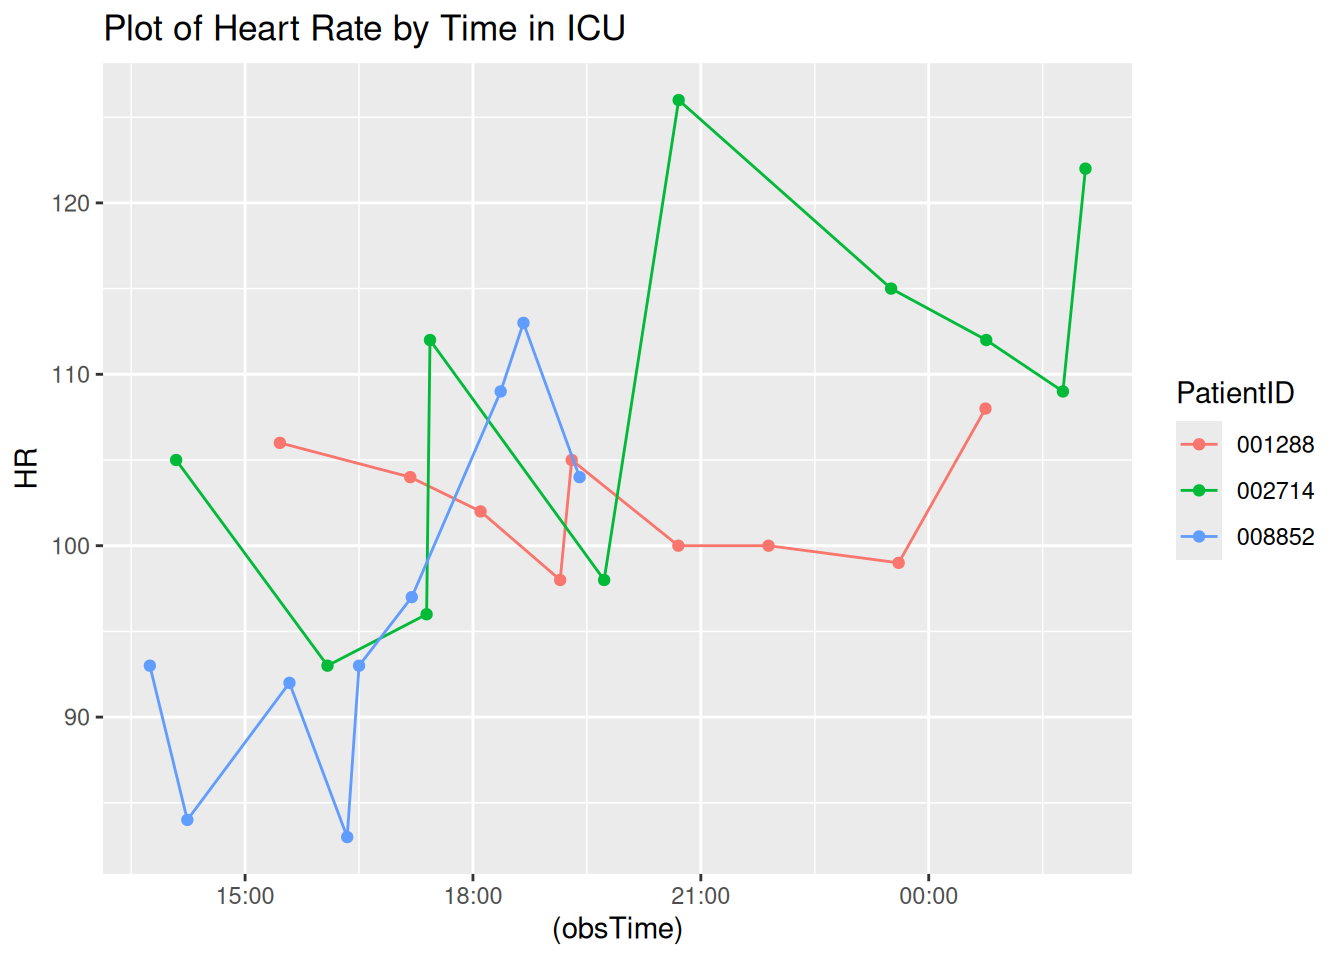
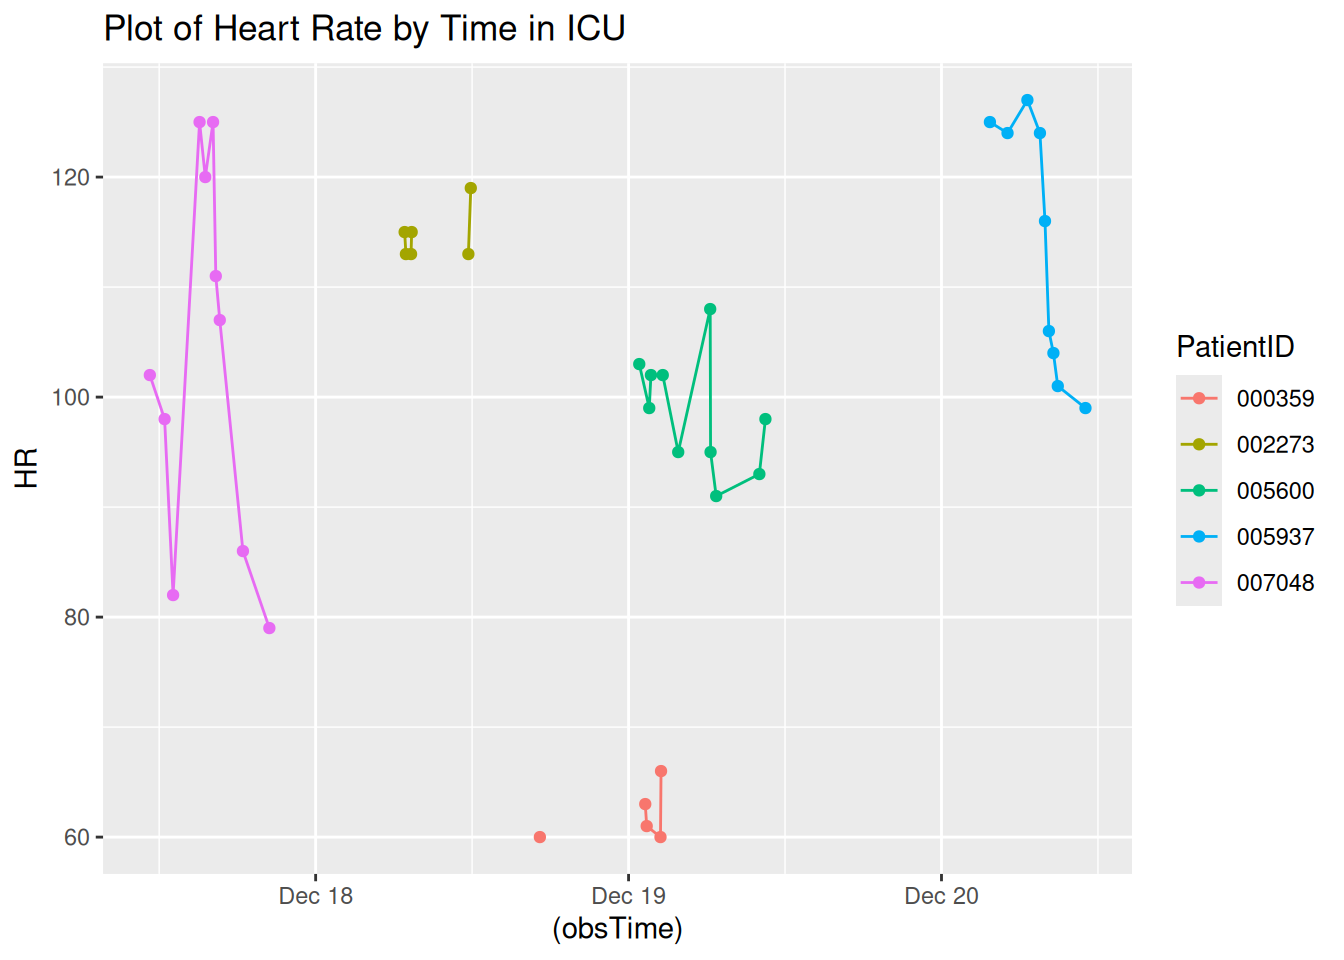
Updated report

diff --git a/A7.html b/A7.html
@@ -119,7 +119,7 @@ pre > code.sourceCode > span > a:first-child::before { text-decoration: underlin
 </div>
 <div class="code-copy-outer-scaffold"><div class="sourceCode cell-code" id="cb4"><pre class="sourceCode r code-with-copy"><code class="sourceCode r"><span id="cb4-1"><a href="#cb4-1" aria-hidden="true" tabindex="-1"></a><span class="fu">toc</span>()</span></code></pre></div><button title="Copy to Clipboard" class="code-copy-button"><i class="bi"></i></button></div>
 <div class="cell-output cell-output-stdout">
-<pre><code>15.056 sec elapsed</code></pre>
+<pre><code>13.439 sec elapsed</code></pre>
 </div>
 <div class="code-copy-outer-scaffold"><div class="sourceCode cell-code" id="cb6"><pre class="sourceCode r code-with-copy"><code class="sourceCode r"><span id="cb6-1"><a href="#cb6-1" aria-hidden="true" tabindex="-1"></a><span class="fu">tic</span>()</span>
 <span id="cb6-2"><a href="#cb6-2" aria-hidden="true" tabindex="-1"></a>test1<span class="ot">=</span><span class="fu">makeSepsisDataset</span>(<span class="at">n=</span><span class="dv">50</span>,<span class="at">read_fn =</span> <span class="st">"read_delim"</span>)</span>
@@ -129,7 +129,7 @@ pre > code.sourceCode > span > a:first-child::before { text-decoration: underlin
 </div>
 <div class="code-copy-outer-scaffold"><div class="sourceCode cell-code" id="cb8"><pre class="sourceCode r code-with-copy"><code class="sourceCode r"><span id="cb8-1"><a href="#cb8-1" aria-hidden="true" tabindex="-1"></a><span class="fu">toc</span>()</span></code></pre></div><button title="Copy to Clipboard" class="code-copy-button"><i class="bi"></i></button></div>
 <div class="cell-output cell-output-stdout">
-<pre><code>13.225 sec elapsed</code></pre>
+<pre><code>8.656 sec elapsed</code></pre>
 </div>
 <div class="code-copy-outer-scaffold"><div class="sourceCode cell-code" id="cb10"><pre class="sourceCode r code-with-copy"><code class="sourceCode r"><span id="cb10-1"><a href="#cb10-1" aria-hidden="true" tabindex="-1"></a><span class="co"># n=100</span></span>
 <span id="cb10-2"><a href="#cb10-2" aria-hidden="true" tabindex="-1"></a><span class="fu">tic</span>()</span>
@@ -140,7 +140,7 @@ pre > code.sourceCode > span > a:first-child::before { text-decoration: underlin
 </div>
 <div class="code-copy-outer-scaffold"><div class="sourceCode cell-code" id="cb12"><pre class="sourceCode r code-with-copy"><code class="sourceCode r"><span id="cb12-1"><a href="#cb12-1" aria-hidden="true" tabindex="-1"></a><span class="fu">toc</span>()</span></code></pre></div><button title="Copy to Clipboard" class="code-copy-button"><i class="bi"></i></button></div>
 <div class="cell-output cell-output-stdout">
-<pre><code>21.501 sec elapsed</code></pre>
+<pre><code>13.528 sec elapsed</code></pre>
 </div>
 <div class="code-copy-outer-scaffold"><div class="sourceCode cell-code" id="cb14"><pre class="sourceCode r code-with-copy"><code class="sourceCode r"><span id="cb14-1"><a href="#cb14-1" aria-hidden="true" tabindex="-1"></a><span class="fu">tic</span>()</span>
 <span id="cb14-2"><a href="#cb14-2" aria-hidden="true" tabindex="-1"></a>test1<span class="ot">=</span><span class="fu">makeSepsisDataset</span>(<span class="at">n=</span><span class="dv">100</span>,<span class="at">read_fn =</span> <span class="st">"read_delim"</span>)</span>
@@ -150,7 +150,7 @@ pre > code.sourceCode > span > a:first-child::before { text-decoration: underlin
 </div>
 <div class="code-copy-outer-scaffold"><div class="sourceCode cell-code" id="cb16"><pre class="sourceCode r code-with-copy"><code class="sourceCode r"><span id="cb16-1"><a href="#cb16-1" aria-hidden="true" tabindex="-1"></a><span class="fu">toc</span>()</span></code></pre></div><button title="Copy to Clipboard" class="code-copy-button"><i class="bi"></i></button></div>
 <div class="cell-output cell-output-stdout">
-<pre><code>24.756 sec elapsed</code></pre>
+<pre><code>16.542 sec elapsed</code></pre>
 </div>
 <div class="code-copy-outer-scaffold"><div class="sourceCode cell-code" id="cb18"><pre class="sourceCode r code-with-copy"><code class="sourceCode r"><span id="cb18-1"><a href="#cb18-1" aria-hidden="true" tabindex="-1"></a><span class="co"># n=500</span></span>
 <span id="cb18-2"><a href="#cb18-2" aria-hidden="true" tabindex="-1"></a><span class="fu">tic</span>()</span>
@@ -161,7 +161,7 @@ pre > code.sourceCode > span > a:first-child::before { text-decoration: underlin
 </div>
 <div class="code-copy-outer-scaffold"><div class="sourceCode cell-code" id="cb20"><pre class="sourceCode r code-with-copy"><code class="sourceCode r"><span id="cb20-1"><a href="#cb20-1" aria-hidden="true" tabindex="-1"></a><span class="fu">toc</span>()</span></code></pre></div><button title="Copy to Clipboard" class="code-copy-button"><i class="bi"></i></button></div>
 <div class="cell-output cell-output-stdout">
-<pre><code>108.972 sec elapsed</code></pre>
+<pre><code>67.907 sec elapsed</code></pre>
 </div>
 <div class="code-copy-outer-scaffold"><div class="sourceCode cell-code" id="cb22"><pre class="sourceCode r code-with-copy"><code class="sourceCode r"><span id="cb22-1"><a href="#cb22-1" aria-hidden="true" tabindex="-1"></a><span class="fu">tic</span>()</span>
 <span id="cb22-2"><a href="#cb22-2" aria-hidden="true" tabindex="-1"></a>test1<span class="ot">=</span><span class="fu">makeSepsisDataset</span>(<span class="at">n=</span><span class="dv">500</span>,<span class="at">read_fn =</span> <span class="st">"read_delim"</span>)</span>
@@ -171,7 +171,7 @@ pre > code.sourceCode > span > a:first-child::before { text-decoration: underlin
 </div>
 <div class="code-copy-outer-scaffold"><div class="sourceCode cell-code" id="cb24"><pre class="sourceCode r code-with-copy"><code class="sourceCode r"><span id="cb24-1"><a href="#cb24-1" aria-hidden="true" tabindex="-1"></a><span class="fu">toc</span>()</span></code></pre></div><button title="Copy to Clipboard" class="code-copy-button"><i class="bi"></i></button></div>
 <div class="cell-output cell-output-stdout">
-<pre><code>123.847 sec elapsed</code></pre>
+<pre><code>84.131 sec elapsed</code></pre>
 </div>
 </div>
 <p><strong>Task 3</strong></p>
@@ -197,7 +197,7 @@ pre > code.sourceCode > span > a:first-child::before { text-decoration: underlin
 <span id="cb28-4"><a href="#cb28-4" aria-hidden="true" tabindex="-1"></a></span>
 <span id="cb28-5"><a href="#cb28-5" aria-hidden="true" tabindex="-1"></a><span class="fu">Sys.time</span>()</span></code></pre></div><button title="Copy to Clipboard" class="code-copy-button"><i class="bi"></i></button></div>
 <div class="cell-output cell-output-stdout">
-<pre><code>[1] "2025-12-17 07:32:39 UTC"</code></pre>
+<pre><code>[1] "2025-12-17 08:39:44 UTC"</code></pre>
 </div>
 <div class="code-copy-outer-scaffold"><div class="sourceCode cell-code" id="cb30"><pre class="sourceCode r code-with-copy"><code class="sourceCode r"><span id="cb30-1"><a href="#cb30-1" aria-hidden="true" tabindex="-1"></a>dfnew <span class="ot">&lt;-</span> df <span class="sc">%&gt;%</span></span>
 <span id="cb30-2"><a href="#cb30-2" aria-hidden="true" tabindex="-1"></a>  <span class="fu">subset</span>(SepsisLabel<span class="sc">==</span><span class="dv">1</span>)</span>
@@ -226,31 +226,49 @@ pre > code.sourceCode > span > a:first-child::before { text-decoration: underlin
 </thead>
 <tbody>
 <tr class="odd">
-<td style="text-align: left;">001288</td>
-<td style="text-align: right;">19</td>
-<td style="text-align: right;">108</td>
+<td style="text-align: left;">000359</td>
+<td style="text-align: right;">42</td>
+<td style="text-align: right;">66</td>
 <td style="text-align: right;">NA</td>
 <td style="text-align: right;">17</td>
 <td style="text-align: right;">1</td>
-<td style="text-align: left;">2025-12-18 00:44:51</td>
+<td style="text-align: left;">2025-12-19 02:29:25</td>
 </tr>
 <tr class="even">
-<td style="text-align: left;">002714</td>
-<td style="text-align: right;">19</td>
-<td style="text-align: right;">122</td>
-<td style="text-align: right;">NA</td>
+<td style="text-align: left;">002273</td>
 <td style="text-align: right;">28</td>
+<td style="text-align: right;">119</td>
+<td style="text-align: right;">35.28</td>
+<td style="text-align: right;">18</td>
 <td style="text-align: right;">1</td>
-<td style="text-align: left;">2025-12-18 02:03:48</td>
+<td style="text-align: left;">2025-12-18 11:53:57</td>
 </tr>
 <tr class="odd">
-<td style="text-align: left;">008852</td>
-<td style="text-align: right;">12</td>
-<td style="text-align: right;">104</td>
-<td style="text-align: right;">NA</td>
-<td style="text-align: right;">24</td>
+<td style="text-align: left;">005600</td>
+<td style="text-align: right;">50</td>
+<td style="text-align: right;">98</td>
+<td style="text-align: right;">38.06</td>
+<td style="text-align: right;">13</td>
 <td style="text-align: right;">1</td>
-<td style="text-align: left;">2025-12-17 19:24:13</td>
+<td style="text-align: left;">2025-12-19 10:29:46</td>
+</tr>
+<tr class="even">
+<td style="text-align: left;">005937</td>
+<td style="text-align: right;">75</td>
+<td style="text-align: right;">99</td>
+<td style="text-align: right;">NA</td>
+<td style="text-align: right;">NA</td>
+<td style="text-align: right;">1</td>
+<td style="text-align: left;">2025-12-20 11:02:33</td>
+</tr>
+<tr class="odd">
+<td style="text-align: left;">007048</td>
+<td style="text-align: right;">12</td>
+<td style="text-align: right;">79</td>
+<td style="text-align: right;">NA</td>
+<td style="text-align: right;">10</td>
+<td style="text-align: right;">1</td>
+<td style="text-align: left;">2025-12-17 20:27:00</td>
 </tr>
 </tbody>
 </table>
